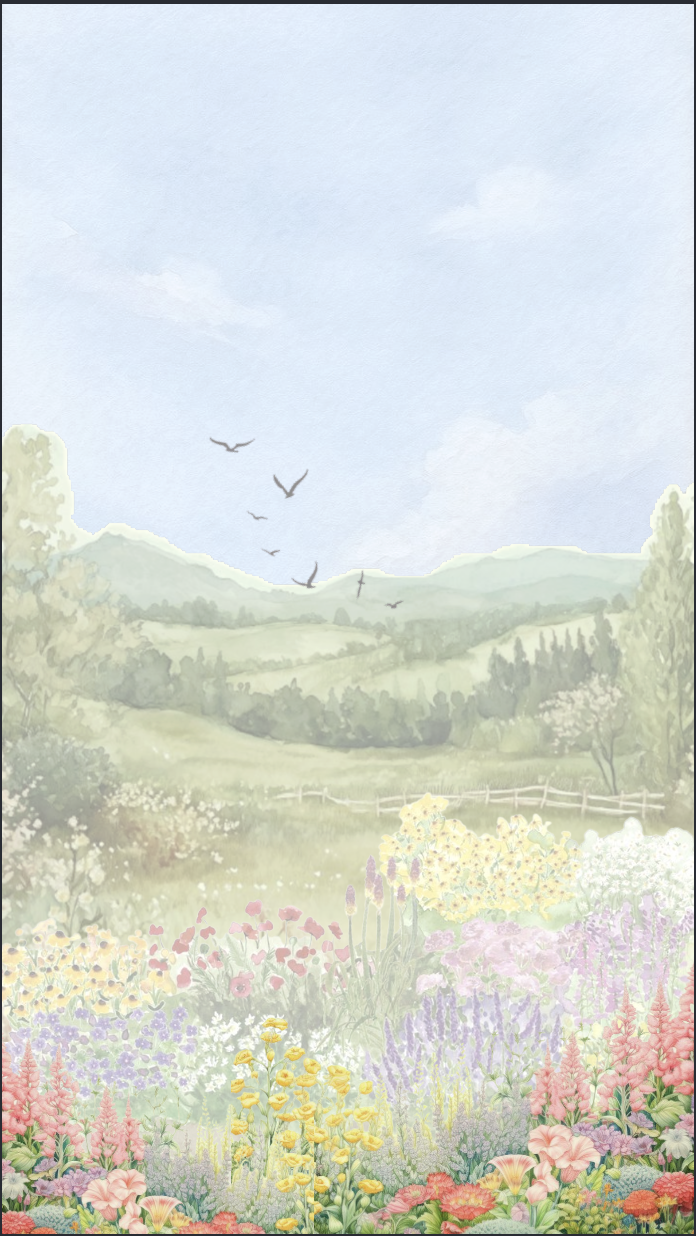
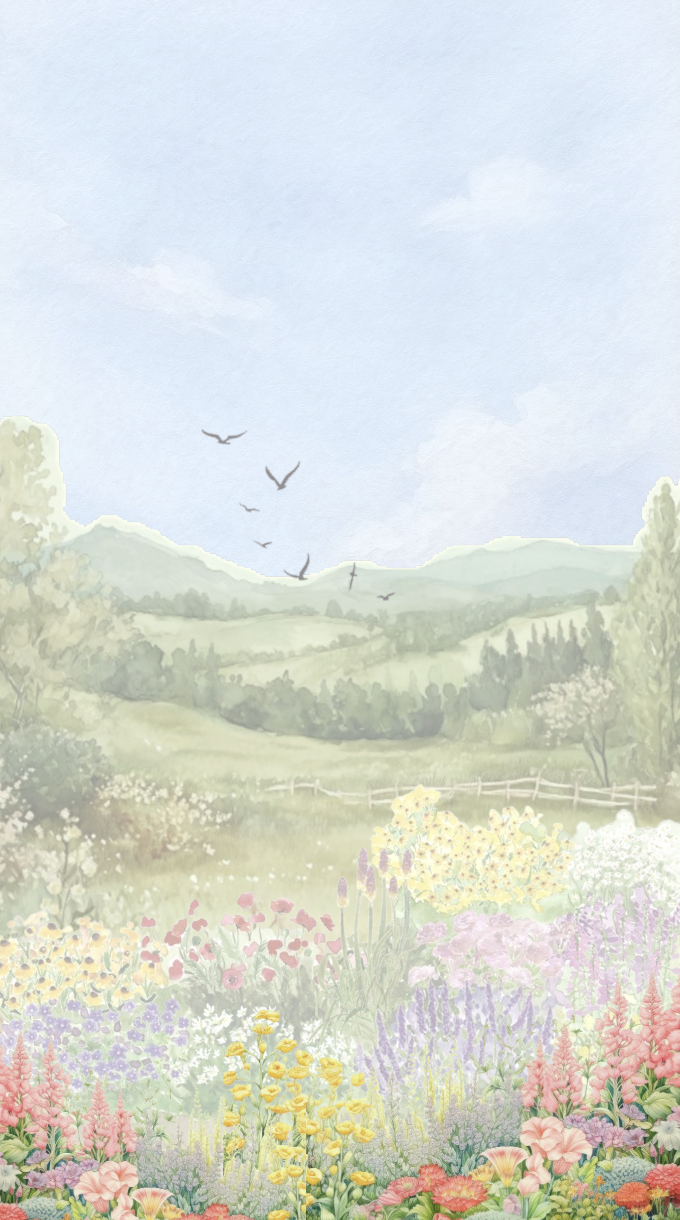
fix

diff --git a/components/layout/Footer.tsx b/components/layout/Footer.tsx
@@ -5,15 +5,15 @@ import { Heart } from "lucide-react";
 
 export function Footer() {
   return (
-    <footer className="py-24 px-4 bg-[#181D14] text-white relative overflow-hidden text-center">
+    <footer className="py-24 px-4 bg-[#a2a761] text-white relative overflow-hidden text-center">
       {/* Decorative Ornaments */}
-      <div className="absolute top-0 left-0 right-0 h-px bg-gradient-to-r from-transparent via-[#8B9B62]/50 to-transparent" />
+      <div className="absolute top-0 left-0 right-0 h-px bg-gradient-to-r from-transparent via-white/40 to-transparent" />
       
       {/* Corner borders */}
-      <div className="absolute top-6 left-6 w-8 h-8 border-t border-l border-[#8B9B62]/30 pointer-events-none" />
-      <div className="absolute top-6 right-6 w-8 h-8 border-t border-r border-[#8B9B62]/30 pointer-events-none" />
-      <div className="absolute bottom-6 left-6 w-8 h-8 border-b border-l border-[#8B9B62]/30 pointer-events-none" />
-      <div className="absolute bottom-6 right-6 w-8 h-8 border-b border-r border-[#8B9B62]/30 pointer-events-none" />
+      <div className="absolute top-6 left-6 w-8 h-8 border-t border-l border-white/35 pointer-events-none" />
+      <div className="absolute top-6 right-6 w-8 h-8 border-t border-r border-white/35 pointer-events-none" />
+      <div className="absolute bottom-6 left-6 w-8 h-8 border-b border-l border-white/35 pointer-events-none" />
+      <div className="absolute bottom-6 right-6 w-8 h-8 border-b border-r border-white/35 pointer-events-none" />
 
       <motion.div
         initial={{ opacity: 0, y: 20 }}
@@ -22,27 +22,19 @@ export function Footer() {
         transition={{ duration: 0.8 }}
         className="max-w-lg mx-auto flex flex-col items-center justify-center relative z-10"
       >
-        <div className="w-10 h-10 rounded-full bg-[#232B1E] border border-[#8B9B62]/40 flex items-center justify-center mb-6">
-          <Heart className="w-5 h-5 text-[#8B9B62] fill-[#8B9B62]/30 animate-pulse" />
+        <div className="w-10 h-10 rounded-full bg-white/20 border border-white/40 flex items-center justify-center mb-6 backdrop-blur-xs shadow-xs">
+          <Heart className="w-5 h-5 text-white fill-white/40 animate-pulse" />
         </div>
 
-        <p className="text-xs text-[#B5C2A3] uppercase tracking-[0.25em] leading-relaxed mb-6 font-sans">
-          Merupakan suatu kehormatan &amp; kebahagiaan bagi kami apabila Bapak/Ibu/Saudara/i berkenan hadir untuk memberikan doa restu kepada kami.
+        <p className="text-xs text-white/90 font-medium uppercase tracking-[0.25em] leading-relaxed mb-6 font-sans">
+          Here's to love, laughter, and happily ever after.
         </p>
 
-        <h4 className="font-serif text-3xl md:text-4xl font-normal text-[#FDF8F0] tracking-wide mt-2 shimmer-gold py-1">
+        <h4 className="font-serif text-3xl md:text-4xl font-normal text-white tracking-wide mt-2 py-1 drop-shadow-xs">
           Akila &amp; Gagas
         </h4>
-        
-        <div className="flex items-center justify-center gap-3 mt-3 opacity-80">
-          <div className="h-px w-8 bg-gradient-to-r from-transparent to-[#8B9B62]" />
-          <span className="text-[10px] text-[#CAD4AA] uppercase tracking-[0.3em] font-sans">
-            Sampai Jumpa Di Hari Bahagia Kami
-          </span>
-          <div className="h-px w-8 bg-gradient-to-l from-transparent to-[#8B9B62]" />
-        </div>
 
-        <p className="text-[9px] text-[#7A8A62] mt-14 font-sans tracking-wider uppercase">
+        <p className="text-[10px] text-white/80 mt-14 font-sans tracking-wider uppercase">
           &copy; {new Date().getFullYear()} Akila &amp; Gagas Wedding Invitation.
         </p>
       </motion.div>

diff --git a/app/page.tsx b/app/page.tsx
@@ -29,21 +29,22 @@ export default function Home() {
       <PersistentLeftBackdrop />
 
       {/* 2. Right Side Invitation Column (or Full Page on Mobile) */}
-      <div className="w-full lg:w-[480px] xl:w-[520px] min-h-screen lg:ml-auto relative z-10 bg-[#FAF7F2] shadow-2xl lg:border-l lg:border-[#E8DECF]">
+      <div className="w-full lg:w-[480px] xl:w-[520px] min-h-screen lg:ml-auto relative z-10 bg-[#FAF7F2] lg:border-l lg:border-[#d9cfc1]/60 desktop-column-shadow">
         {/* Fixed decorative background — stays in place while content scrolls */}
         <div
-          className="fixed inset-0 lg:left-auto lg:right-0 lg:w-[480px] xl:lg:w-[520px] pointer-events-none z-0 bg-[#FAF7F2]"
+          className="fixed inset-0 lg:left-auto lg:right-0 lg:w-[480px] xl:w-[520px] pointer-events-none z-0 bg-[#FAF7F2] lg:border-l lg:border-[#d9cfc1]/60"
           style={{
             backgroundImage: "url('/gallery/background_wedding.jpg')",
             backgroundSize: "cover",
-            backgroundPosition: "center",
+            backgroundPosition: "center top",
             backgroundRepeat: "no-repeat",
           }}
         />
 
+
         <OpeningScreen />
 
-        <main className="relative z-10 w-full min-h-screen pb-10">
+        <main className="relative z-10 w-full min-h-screen">
           {/* Section 1: Countdown (1 Halaman Penuh Pertama) */}
           <Countdown weddingDate={weddingDate} />
 

diff --git a/components/sections/OpeningScreen.tsx b/components/sections/OpeningScreen.tsx
@@ -20,7 +20,7 @@ function OpeningContent() {
           initial={{ opacity: 1, y: 0 }}
           exit={{ opacity: 0, y: "-100%" }}
           transition={{ duration: 1.0, ease: [0.77, 0, 0.175, 1] }}
-          className="fixed inset-0 lg:left-auto lg:right-0 lg:w-[480px] xl:lg:w-[520px] z-50 h-screen overflow-hidden flex flex-col justify-end items-center pb-28 sm:pb-32 px-6 bg-[#FAF7F2] shadow-2xl select-none"
+          className="fixed inset-0 lg:left-auto lg:right-0 lg:w-[480px] xl:w-[520px] z-50 overflow-hidden flex flex-col justify-end items-center pb-28 sm:pb-32 px-6 bg-[#FAF7F2] lg:border-l lg:border-[#d9cfc1]/60 desktop-column-shadow select-none"
         >
           {/* Background Video Layer */}
           <video
@@ -63,7 +63,7 @@ function OpeningContent() {
 export function OpeningScreen() {
   return (
     <Suspense fallback={
-      <div className="fixed inset-0 lg:left-auto lg:right-0 lg:w-[480px] xl:lg:w-[520px] z-50 flex flex-col items-center justify-center bg-[#181411] text-white">
+      <div className="fixed inset-0 lg:left-auto lg:right-0 lg:w-[480px] xl:w-[520px] z-50 flex flex-col items-center justify-center bg-[#181411] text-white">
         <div className="animate-spin rounded-full h-8 w-8 border-t-2 border-[#3B4420]"></div>
       </div>
     }>

diff --git a/components/sections/Gift.tsx b/components/sections/Gift.tsx
@@ -36,19 +36,15 @@ export function Gift() {
           <PaperCard variant="default" className="text-center">
             {/* Title */}
             <div className="mb-6">
-              <span className="text-[10px] uppercase tracking-[0.35em] text-[#4A542C] font-semibold block mb-1">
-                Kado Digital
-              </span>
               <h3 className="font-serif italic text-3xl sm:text-4xl text-[#1A1A1A] font-semibold">
-                Tanda Kasih
+               With Love & Gratitude
               </h3>
               <div className="w-16 h-0.5 bg-gradient-to-r from-transparent via-[#8B9B62] to-transparent mx-auto mt-3" />
             </div>
 
             {/* Caption */}
             <p className="text-xs sm:text-[13px] text-[#4A542C] leading-relaxed max-w-sm mx-auto mb-6 font-sans">
-              Kehadiran dan doa restu Anda adalah kado terindah bagi kami. Namun apabila Anda ingin
-              mengirimkan tanda kasih, Anda dapat menyalurkannya melalui rekening berikut:
+              Your presence and prayers are the greatest gifts we could ask for. If you wish to send a gift, you may do so here.
             </p>
 
             {/* Gift Options */}

diff --git a/components/layout/PersistentLeftBackdrop.tsx b/components/layout/PersistentLeftBackdrop.tsx
@@ -6,7 +6,7 @@ export function PersistentLeftBackdrop() {
   return (
     <aside 
       aria-label="Wedding Banner"
-      className="hidden lg:flex fixed top-0 left-0 bottom-0 w-[calc(100vw-480px)] xl:w-[calc(100vw-520px)] h-screen z-0 flex-col justify-end p-12 xl:p-16 overflow-hidden bg-[#26211C] bg-cover bg-no-repeat select-none"
+      className="hidden lg:flex fixed inset-y-0 left-0 w-[calc(100vw-480px)] xl:w-[calc(100vw-520px)] z-0 flex-col justify-end p-12 xl:p-16 overflow-hidden bg-[#26211C] bg-cover bg-no-repeat select-none"
       style={{ 
         backgroundImage: "url('/gallery/DSC03172.jpg')",
         backgroundPosition: "center 85%",

diff --git a/app/globals.css b/app/globals.css
@@ -38,6 +38,12 @@
   --font-arabic: var(--font-arabic);
 }
 
+html, body {
+  margin: 0;
+  padding: 0;
+  height: 100%;
+}
+
 body {
   background-color: var(--background);
   color: var(--foreground);
@@ -194,3 +200,11 @@ body {
 .animate-spin-slow {
   animation: rotate-disk 12s linear infinite;
 }
+
+/* Clean split-screen transition shadow for desktop right column */
+@media (min-width: 1024px) {
+  .desktop-column-shadow {
+    box-shadow: -12px 0 35px -5px rgba(0, 0, 0, 0.22), -4px 0 10px -2px rgba(0, 0, 0, 0.12);
+  }
+}
+
